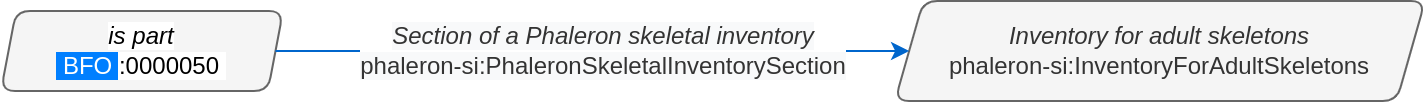
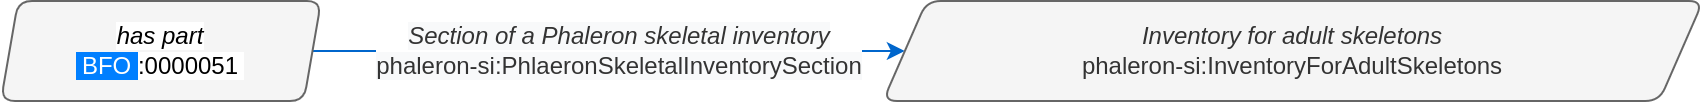
refining and expanding documentation, especially aspects on class instantiation

diff --git a/docs/userguide/userguide_main.rst b/docs/userguide/userguide_main.rst
@@ -50,23 +50,62 @@ Reflecting this distinction between subject/object and predicate, predicate clas
 IRIs
 ++++++
 
-Subjects, predicates, and objects all have identifiers. These identifiers are called IRIs, and they are what is used in a triple to specify what data items are being used in a triple. IRIs can be looked up in the ontology in which they are defined. An IRI is ultimately just a string of text. They typically look similar to URLs, and they are in fact closely related in concept. Each IRI belongs to a unique concept, such as a class describing e.g. a human femur, while another IRI may refer to an instance of a human femur, such as one found in an excavated burial.
+Subjects, predicates, and objects all have identifiers. Such an identifier is called an Internationalized Resource Identifier (IRI). IRIs are essentially just a unique string of text, and they look similar to (and in some ways function like) the URLs we know from browsing the web. The IRI of a class can be looked up in the ontology in which the class is defined. The following image shows the 'Inventory for adult skeletons' class being inspected in the ontology editing software Protégé:
+
+.. image:: gfx/IRI_protege.png
+   :scale: 50 %
+
+Protégé displays a lot of information; for the moment, let us focus only on the fact that the class 'Inventory for adult skeletons' has been selected and look to the top right of the interface. Highlighted in magenta is the label of the class, which Protégé, like many other applications that work with semantic data, automatically pulls from the 'rdfs:label' triple of the class currently being inspected. The actual IRI is highlighted in cyan.
+
+Within a single ontology, each IRI must be unqiue; the label however does not need to be unique. This is an imprtant distinction: imagine an ontology defining both gender and biological sex - you may want both gender and sex to have the label "male", but you will also want the two distinct concepts to be represented by two distinct classes, where each has a specific definition. Instances of classes may also cause confusion when it comes to IRIs, see :ref:`_ClassesInstancesSection` for more details on instances and their IRIs.
+
+In effect, ontologies are where the exact string of the IRIs of classes are "decided on". The string can be more or less made up arbitrarily by the auther of the class, though generally the prefix of the IRI will be the same within an ontology. For example, in the Phaleron skeletal inventory extension ontology, we find the classes:
+
+http://w3id.org/rdfbones/ext/phaleron-si/InventoryForAdultSkeletons
+http://w3id.org/rdfbones/ext/phaleron-si/PhaleronSkeletalInventorySection
+
+These share the prefix "http://w3id.org/rdfbones/ext/phaleron-si/". In the Walker's sex estimation ontology, we find the classes have a different prefix:
+
+http://w3id.org/rdfbones/ext/walker-se/GlabellaMorphology
+http://w3id.org/rdfbones/ext/walker-se/MentumMorphology
+
+This first part of the IRI is what is adressed by the "PREFIX" element found in SPARQL queries, see :ref:`_PrefixesSection` for details.
+
 
 .. _ClassesInstancesSection:
 +++++++++++++++++++++++++++++++++
 Classes and instances of classes
 +++++++++++++++++++++++++++++++++
 
-Classes generally describe concepts in the abstract, that is, they do not describe a "real-world" instance of something, such as a specific skeletal inventory saved in a database, but instead describe only what any potential skeletal inventory of that type would be like.
+Classes generally describe concepts in the abstract, that is, they do not describe a "real-world" instance of something. For example, there may be a specific skeletal inventory saved in a database somewhere. A class on skeletal inventories would describe only what any potential skeletal inventory of that type would be like, which would include this specific instance of skeletal inventory saved on the database. The class describes the idea, and instances of a class are examples of this idea "made real".
 
 .. image:: gfx/skel_inv_protege.png
    :scale: 50 %
 
-In the image above, the 'Phaleron skeletal inventory' extension ontology has been opened in the ontology editing software 'Protégé'. In this screenshot, Protégé can be divided into 3 sections: the class hierarchy section, which lists all classes in the ontology and shows the parent-class/subclass/sibling-class relations of these classes. The class 'Inventory for adult skeletons' has been selected and is highlighted blue. In the top-right, the annotations of the selected class are shown. Annotations give information on a class, which usually entails aspects such as a label, the name of the author of the class, and a definition on what the class represents. In the bottom-right, under the head "Descriptions", axioms and restrictions of the class are shown. These elements give information on how to use the class in a dataset; where the annotations give information in text form that must generally be interpreted by humans, the axioms and restrictions can be interpreted as logical operations by machines as well.
+In the image above, an RDFBones ontology file has been opened in the ontology editing software 'Protégé'. In this screenshot, Protégé can be divided into 3 sections: the class hierarchy section, which lists all classes in the ontology and shows the parent-class/subclass/sibling-class relations of these classes. The class 'Inventory for adult skeletons' has been selected and is highlighted blue. In the top-right, the annotations of the selected class are shown. Annotations give information on a class, which usually entails aspects such as a label, the name of the author of the class, and a definition on what the class represents. In the bottom-right, under the head "Descriptions", axioms and restrictions of the class are shown. These elements give information on how to use the class in a dataset; where the annotations give information in text form that must generally be interpreted by humans, the axioms and restrictions can be interpreted as logical operations by machines as well.
 
-Classes can be instantiated, which means the abstract concept is applied to a concrete occurence. This can be the case of a human femur being found in a burial excavation and then being described as an instance of such in a skeletal inventory, or it can be the process of a skeletal inventory being performed. If we assume we have an ontology that has classes for both the femur and the inventorying process, the excavated femur would be an instance "of the type" 'human femur', and the inventory process would be "of the type" 'skeletal inventory process'. The recorded femur of the skeleton will have a unqiue IRI distinct from the IRI of the class which describes femurs as a concept.
+Classes can be instantiated, which means the abstract concept is applied to a concrete occurence. This can apply to entities such as human skeleton that was excavated, a measurement made on a bone of that skeleton, or a dataset in which the measurement is saved. Instances can also include processes, such as the porcess of a measurement being performed or a skeletal inventory being inventoried.
 
-Note that instead of "instance", you may also see an instance of classes be referred to as an "individual" or a "named individual". For our purposes, these 3 terms can be considered synonyms.
+As a simple example, let us take an instance of the class 'Inventory for adult skeletons':
+
+.. image:: gfx/instance_example.png
+   :scale: 50 %
+
+In this imaginary example, the instance of the class has an IRI that is distinct from the class it instantiates. This is a must: an instance may not have the same IRI as a class, as this would mean instance and concept are the same. This example instance has further received a label in order to make it more easily identifiable. Labels, unlike IRIs, are optional for an instance (the same applies to classes), and if an instance does not have a label, applications may try to "improvise" one by looking at the IRI or the class it is instantiating. Some applications, such as AnthroGraph's skeletal inventory, will hence force the user to supply a label for important instances in order to prevent such confusion.
+
+In a more complex illustration of instantiation, consider the network graph describing how observer and data editor roles are recorded in Phaleron inventories in RDFBones. First, the uninstantiated graph:
+
+.. image:: gfx/process_classes.png
+   :scale: 50 %
+   
+Red coloured classes refer to the scientific role a researcher or data editor has assumed, while blue classes refer to (scientific) processes, i.e. the skeletal inventory dataset is the product of the inventorying process (See :ref:`LegendExplain` for further details on how to read RDFBones network graphs). Now, we produce an example dataset according to the uninstantiated blueprint provided by the above graph:
+
+.. image:: gfx/process_instances.png
+   :scale: 50 %
+
+This graph appears more complex since it has an additional element over the uninstantiated graph: every class (solid-outlined parallelogram) has been replaced by an instance (dotted-outlined rectangles), and each instance has an 'rdf:type' triple specifying what the instance is. Furthermore, the IRI of the class is replaced by the IRI of the instance; some instances have received labels (e.g. the inventory), while others have not (e.g. the research contribution processes). Whether or not an instance has a label has no relevance on the validity of the instance; the label is only for easier differentiation and is added when deemed necessary, such as when naming a skeletal inventory. The IRI of every instance is unique and suffices to differentiate instances of the same class, though it is generally more difficult for human eyes than having unique labels.
+
+Note that instead of the term "instance", you may also encounter the terms "individual" or "named individual". For our purposes, these 3 terms can be considered synonymous.
 
 
 +++++++++++
@@ -133,6 +172,7 @@ Translating network graphs into datasets and vice-versa
 
 This section gives a to-the-point explanation on how to get from the top dataset instance to a given measurement datum in an RDFBones ontology, which is a common requirement for SPARQL queries extracting data for research purposes. The network graphs in this section only contain a fraction of the full information found in the RDFBones standard. For the full graphs, see the above section :ref:`RDFBonesNetworkGraphsSection`.
 
+.._LegendExplain:
 ~~~~~~~~~~~~~~~~~~~~~~~~~
 Understanding the legend
 ~~~~~~~~~~~~~~~~~~~~~~~~~
@@ -148,11 +188,19 @@ In many cases, only a small part of this legend will be relevant for a SPARQL qu
    
 The legend tells us the following:
 
-* The 'is a' relation is equivalent to the predicate 'rdfs:subClassOf', i.e. it tells us that the class the arrow points from is a child class of the class the arrow points towards. The label 'is a' is not to be confused with the label 'a'. The predicate of 'is a' is thus **not** equivalent to the predicate 'rdf:type'. The 'rdfs:subClassOf' relation can be very useful when you are not looking for a specific result of an observation or measurement, but wish to know what all the possible results are. However, compared to the 'rdf:type' relation, it is used far less frequently.
-* 'instance of class' **is equivalent to** the predicate 'rdf:type'. It means the class at the base of the arrow is an instance of the class the arrow is pointing towards. It is thus **not** equivalent to the predicate 'rdfs:subClassOf'. The 'rdf:type' relation is highly useful for telling SPARQL what you are looking for and is thus very frequently used in most queries.
-* 'other relation' means the label written on the arrow tells us what the predicate is the arrow is representing. Remember: The IRI shown assumes a prefix has been defined in the SPARQL query, see :ref:`IRISection` and :ref:`PrefixesSection`
+* The 'is-a' relation is equivalent to the predicate 'rdfs:subClassOf', i.e. it tells us that the class the arrow points from is a child class of the class the arrow points towards. The 'is-a'-arrow is slightly thicker than the other arrows.
+* The 'instance of class' relation is equivalent to the predicate 'rdf:type'. It means the class at the base of the arrow is an instance of the class the arrow is pointing towards. The arrow can be identified by its dotted line. The 'rdf:type' predicate is frequently represented by the label 'a' in documentation, queries, and some network graphs. In fact, when writing a query in most SPARQL processing software it is possible to replace 'rdf:type' with 'a'. The 'rdf:type' relation is highly useful for telling SPARQL what you are looking for and is thus very frequently used in most queries. Be sure not to confuse the predicate 'a' with the 'is-a' predicate mentioned above.
+* 'other relation' means the label written on the arrow tells us what the predicate is. The arrow accordingly represents that predicate.
 
-Always pay close attention to the direction the arrow of a predicate is pointing in network graphs, as reversing the triple's reading direction is an easy way to accidentally make a SPARQL query give incorrect outputs.
+The 'label' in the legend for the 'other relation' arrow is a placeholder for the actual predicate's  label. If the actual predicate is in fact 'rdfs:label', then the arrow will still show 'label' with 'prefix:URI' being turned into 'rdfs:label', since 'label' is the label of the class 'label, with its IRI being <http://www.w3.org/2000/01/rdf-schema#label>. The IRI shown in RDFBones network graphs assumes a prefix has been defined in the SPARQL query, see :ref:`IRISection` and :ref:`PrefixesSection` for details.
+
+Always pay close attention to the direction the arrow of a predicate is pointing in network graphs, as reversing the triple's reading direction is an easy way to accidentally make a SPARQL query give incorrect outputs. In the following example:
+
+.. image:: gfx/triples_basic.png
+   :scale: 50 %
+   
+The triple is written 'phaleron-si:InventoryForAdultSkeletons' 'obo:BFO_0000051' 'phaleron-si:PhaleronSkeletalInventorySection'. The arrow always points from subject to object.
+
 
 ~~~~~~~~~~~~~~~~~~~~~~~~~~~~~~~~~~~~~~
 Ontology instances and data instances
@@ -164,9 +212,24 @@ Finally, notice that some of the boxes in the full legend and the network graphs
 * **Data instances** are instances of a class in a dataset, i.e. they are the reification of the concept of the class, see the section :ref:`ClassesInstancesSection`. You can also imagine them as "dataset instances", as opposed to the "ontology instances"
 * **Ontology instances** are instances that are not defined by the context of the dataset in which they were generated, but are instead "pre-generated instances" defined within an ontology file
 
-The difference between ontology and data instances is subtle, but it is relevant for writing queries. Not all instances in RDFBones are e.g. material instances of specific bones in an inventory. In the RDFBones standard, certain qualities or attributes may be "of the type" of certain classes; in the sense that they have the predicate 'rdf:type', but also in the sense that they are of a certain type of attribute. For example, 'Male' can be "of the type" 'human sex category', where 'human sex category' is a class, and 'Male' is an instance of that class. 'Female' and 'Intersex' may be further instances of 'human sex category'. However, the attribute of 'Male', 'Female', and 'Intersex' can all be "re-used" and assigned to any number of instances of e.g. human skeletons that have been sexed, despite being an instance themselves. These ontology-defined instances will always have the same IRIs each time they appear; data instances in turn will have a different IRI for each unique dataset.
+.. image:: gfx/class_protege.png
+   :scale: 50 %
+   
+Classes are defined in ontologies, such as the RDFBones ontology above that has been openend in the ontology editiong software 'Protégé'.
 
-Information content entities are exactly what the name implies: items that represent data. This class purposefully encapsulates a very broad range of data. In contrast, literal values refers only to strings of text like comments or a numeric value for the number of unidentified fragments of a bone, etc.
+.. image:: gfx/ontology_instance_protege.png
+   :scale: 50 %
+
+Ontology instances are also defined in an ontology. Like instances in datasets, they relate to a class via the predicate 'rdf:type'. In the above image, the ontology instance 'Excavation damage' has been highlighted. It is an instance of the class 'Taphonomic trace label'.
+
+.. image:: gfx/data_instance_protege.png
+   :scale: 50 %
+
+The above image shows an RDFBones dataset that has been opened in Protégé. RDF and RDFBones datasets are not ontologies, but they can function like one in many ways. In this case, a skeletal inventory dataset has been opened, and the instance of the 'Inventory for adult skeletons' class has been highlighted. Since this is a skeletal inventory dataset, there is only a single such instance, and it has the name of the inventory - "VERSION_METRICS_STANDARD" - as its label. In fact, this is where the label of an inventory is saved and where AnthroGraph looks when it wants to show the inventory's name in the user interface.
+
+Like the ontology instance, this data instance has an rdf:type relation. The difference between an ontology instance and a data instances is subtle, but it is relevant for writing queries. In the RDFBones standard, certain qualities or attributes may be "of the type" of certain classes; in the sense that they have the predicate 'rdf:type', but also in the sense that they are of a certain type of attribute. For example, 'Male' can be "of the type" 'human sex category', where 'human sex category' is a class, and 'Male' is an instance of that class. 'Female' and 'Intersex' may be further instances of 'human sex category'. However, the attribute of 'Male', 'Female', and 'Intersex' can all be "re-used" and assigned to any number of instances of e.g. human skeletons that have been sexed, despite being an instance themselves. These ontology-defined instances will always have the same IRIs each time they appear; data instances in turn will have a different IRI for each unique dataset. 'Excavation damage' is one such example: any number of measurement data that observe the taphonomy of a bone may be "of the type" 'Excavation damage', where they all refer to the same type of taphonomic change (i.e. excavation damages). The data instance of our skeletal inventory on the other hand does not get re-used in such a way. There is only one such inventory, and its IRI is different from all other adult skeleton inventories.
+
+Finally, 'Information content entities' (ICE) are exactly what the name implies: items that represent data. This class purposefully encapsulates a very broad range of data. In contrast, literal values refers only to strings of text like comments or a numeric value for the number of unidentified fragments of a bone, etc. ICEs stand in contrast to processes, where some action is performed over a certain amount of time such as a measurement being taken or a conclusion being drawn, and material entities, where a physical object such as a bone or a human being is being represented by a data point.
 
 ~~~~~~~~~~~~~~~~~~~~~~~~~~~~~~~~~~~~~~~~~~~~~
 Finding a datum in an example network graph
@@ -206,7 +269,7 @@ In the above image, we again have an abbreviated version of the network graph of
 
 Instantiated means exactly that: all the abstract classes have been replaced by instances. Instances generally do not have labels, and they have a very long IRI. IRI of instances in RDFBones are generally concatenations of  randomly generated numbers and strings that in some way relate to the measurement datum, such as its region of interest; the IRIs are long and random in order to ensure that even if e.g. you have a database with 1,000,000 femurs, each femur instance will still have its own distinct identifier.
 
-Note that each instance has a 'rdf:type' relation to the class it is instantiating. This is what translates the model of the network graph to the model of the dataset, this is what the process of instantiating entails. Accordingly, the 'rdf:type' relation is vital when mentally translating the network graph into a SPARQL query.
+Note that each instance has a 'rdf:type' relation to the class it is instantiating (the arrows with dotted lines). This is what translates the model of the network graph to the model of the dataset, this is what the process of instantiating entails. Accordingly, the 'rdf:type' relation is vital when mentally translating the network graph into a SPARQL query.
 
 
 ~~~~~~~~~~~~~~~~~~~~~~~~~~~~~~~~~~~
